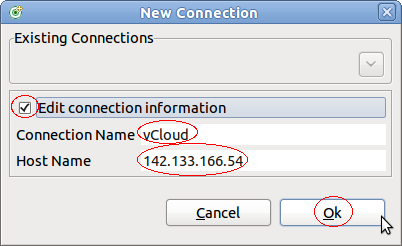
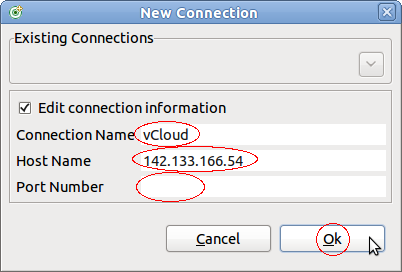
lttng: Support for port number in lttng control (bug 406122)
IP-Clean: Alexandre Montplaisir <alexmonthy@voxpopuli.im>

Changed region(s): [[0.0, 0.0, 1.0, 0.7683], [0.4179, 0.7967, 0.9851, 0.9675]]

diff --git a/lttng/org.eclipse.linuxtools.lttng2.ui/src/org/eclipse/linuxtools/internal/lttng2/ui/views/control/dialogs/NewConnectionDialog.java b/lttng/org.eclipse.linuxtools.lttng2.ui/src/org/eclipse/linuxtools/internal/lttng2/ui/views/control/dialogs/NewConnectionDialog.java
@@ -1,5 +1,5 @@
 /**********************************************************************
- * Copyright (c) 2012 Ericsson
+ * Copyright (c) 2012, 2013 Ericsson
  *
  * All rights reserved. This program and the accompanying materials are
  * made available under the terms of the Eclipse Public License v1.0 which
@@ -19,11 +19,14 @@ import org.eclipse.jface.dialogs.MessageDialog;
 import org.eclipse.linuxtools.internal.lttng2.ui.Activator;
 import org.eclipse.linuxtools.internal.lttng2.ui.views.control.messages.Messages;
 import org.eclipse.linuxtools.internal.lttng2.ui.views.control.model.ITraceControlComponent;
+import org.eclipse.linuxtools.internal.lttng2.ui.views.control.remote.IRemoteSystemProxy;
 import org.eclipse.rse.core.model.IHost;
 import org.eclipse.swt.SWT;
 import org.eclipse.swt.custom.CCombo;
 import org.eclipse.swt.events.SelectionEvent;
 import org.eclipse.swt.events.SelectionListener;
+import org.eclipse.swt.events.VerifyEvent;
+import org.eclipse.swt.events.VerifyListener;
 import org.eclipse.swt.graphics.Point;
 import org.eclipse.swt.layout.GridData;
 import org.eclipse.swt.layout.GridLayout;
@@ -84,6 +87,10 @@ public class NewConnectionDialog extends Dialog implements INewConnectionDialog 
      */
     private Text fHostNameText = null;
     /**
+     * The text widget for the IP port
+     */
+    private Text fPortText = null;
+    /**
      * The parent where the new node should be added.
      */
     private ITraceControlComponent fParent;
@@ -95,7 +102,10 @@ public class NewConnectionDialog extends Dialog implements INewConnectionDialog 
      * The node address (IP or DNS name) string.
      */
     private String fHostName = null;
-
+    /**
+     * The IP port of the connection.
+     */
+    private int fPort = IRemoteSystemProxy.INVALID_PORT_NUMBER;
     /**
      * Input list of existing RSE hosts available for selection.
      */
@@ -136,6 +146,11 @@ public class NewConnectionDialog extends Dialog implements INewConnectionDialog 
         return fHostName;
     }
 
+    @Override
+    public int getPort() {
+        return fPort;
+    }
+
     /*
      * (non-Javadoc)
      * @see org.eclipse.linuxtools.internal.lttng2.ui.views.control.dialogs.INewConnectionDialog#setTraceControlParent(org.eclipse.linuxtools.internal.lttng2.ui.views.control.model.ITraceControlComponent)
@@ -154,6 +169,11 @@ public class NewConnectionDialog extends Dialog implements INewConnectionDialog 
         if (hosts != null) {
             fExistingHosts = Arrays.copyOf(hosts, hosts.length);
         }
+    }
+
+    @Override
+    public void setPort(int port) {
+        fPort = port;
     }
 
     // ------------------------------------------------------------------------
@@ -227,6 +247,19 @@ public class NewConnectionDialog extends Dialog implements INewConnectionDialog 
         fHostNameText.setToolTipText(Messages.TraceControl_NewNodeHostNameTooltip);
         fHostNameText.setEnabled(fExistingHosts.length == 0);
 
+        Label portLabel = new Label(fTextGroup, SWT.RIGHT);
+        portLabel.setText(Messages.TraceControl_NewNodePortLabel);
+        fPortText = new Text(fTextGroup, SWT.NONE);
+        fPortText.setToolTipText(Messages.TraceControl_NewNodePortTooltip);
+        fPortText.setEnabled(fExistingHosts.length == 0);
+        fPortText.addVerifyListener(new VerifyListener() {
+            @Override
+            public void verifyText(VerifyEvent e) {
+                // only numbers are allowed.
+                e.doit = e.text.matches("[0-9]*"); //$NON-NLS-1$
+            }
+        });
+
         fButton.addSelectionListener(new SelectionListener() {
             @Override
             public void widgetSelected(SelectionEvent e) {
@@ -235,10 +268,12 @@ public class NewConnectionDialog extends Dialog implements INewConnectionDialog 
                     fExistingHostsCombo.setEnabled(false);
                     fConnectionNameText.setEnabled(true);
                     fHostNameText.setEnabled(true);
+                    fPortText.setEnabled(true);
                 } else {
                     fExistingHostsCombo.setEnabled(true);
                     fConnectionNameText.setEnabled(false);
                     fHostNameText.setEnabled(false);
+                    fPortText.setEnabled(false);
                 }
             }
 
@@ -253,6 +288,7 @@ public class NewConnectionDialog extends Dialog implements INewConnectionDialog 
                 int index = fExistingHostsCombo.getSelectionIndex();
                 fConnectionNameText.setText(fExistingHosts[index].getAliasName());
                 fHostNameText.setText(fExistingHosts[index].getHostName());
+                fPortText.setText(""); //$NON-NLS-1$
             }
 
             @Override
@@ -264,11 +300,20 @@ public class NewConnectionDialog extends Dialog implements INewConnectionDialog 
         data = new GridData(GridData.FILL_HORIZONTAL);
         fHostNameText.setText("666.666.666.666"); //$NON-NLS-1$
         Point minSize = fHostNameText.computeSize(SWT.DEFAULT, SWT.DEFAULT, true);
-        data.widthHint = minSize.x + 5;
+        int widthHint = minSize.x + 5;
+        data.widthHint = widthHint;
         data.horizontalSpan = 2;
-
         fConnectionNameText.setLayoutData(data);
+
+        data = new GridData(GridData.FILL_HORIZONTAL);
+        data.widthHint = widthHint;
+        data.horizontalSpan = 2;
         fHostNameText.setLayoutData(data);
+
+        data = new GridData(GridData.FILL_HORIZONTAL);
+        data.widthHint = widthHint;
+        data.horizontalSpan = 2;
+        fPortText.setLayoutData(data);
 
         fHostNameText.setText(""); //$NON-NLS-1$
 
@@ -294,6 +339,7 @@ public class NewConnectionDialog extends Dialog implements INewConnectionDialog 
         // Validate input data
         fConnectionName = fConnectionNameText.getText();
         fHostName = fHostNameText.getText();
+        fPort = (fPortText.getText().length() > 0) ? Integer.parseInt(fPortText.getText()) : IRemoteSystemProxy.INVALID_PORT_NUMBER;
 
         if (!"".equals(fHostName)) { //$NON-NLS-1$
             // If no node name is specified use the node address as name

diff --git a/lttng/org.eclipse.linuxtools.lttng2.ui/src/org/eclipse/linuxtools/internal/lttng2/ui/views/control/handlers/NewConnectionHandler.java b/lttng/org.eclipse.linuxtools.lttng2.ui/src/org/eclipse/linuxtools/internal/lttng2/ui/views/control/handlers/NewConnectionHandler.java
@@ -1,5 +1,5 @@
 /**********************************************************************
- * Copyright (c) 2012 Ericsson and others
+ * Copyright (c) 2012, 2013 Ericsson and others
  *
  * All rights reserved. This program and the accompanying materials are
  * made available under the terms of the Eclipse Public License v1.0 which
@@ -25,6 +25,7 @@ import org.eclipse.linuxtools.internal.lttng2.ui.views.control.dialogs.TraceCont
 import org.eclipse.linuxtools.internal.lttng2.ui.views.control.messages.Messages;
 import org.eclipse.linuxtools.internal.lttng2.ui.views.control.model.ITraceControlComponent;
 import org.eclipse.linuxtools.internal.lttng2.ui.views.control.model.impl.TargetNodeComponent;
+import org.eclipse.linuxtools.internal.lttng2.ui.views.control.remote.IRemoteSystemProxy;
 import org.eclipse.rse.core.IRSESystemType;
 import org.eclipse.rse.core.RSECorePlugin;
 import org.eclipse.rse.core.model.IHost;
@@ -86,6 +87,7 @@ public class NewConnectionHandler extends BaseControlViewHandler {
         final INewConnectionDialog dialog = TraceControlDialogFactory.getInstance().getNewConnectionDialog();
         dialog.setTraceControlParent(fRoot);
         dialog.setHosts(hosts);
+        dialog.setPort(IRemoteSystemProxy.INVALID_PORT_NUMBER);
 
         if (dialog.open() != Window.OK) {
             return null;
@@ -93,6 +95,7 @@ public class NewConnectionHandler extends BaseControlViewHandler {
 
         String hostName = dialog.getConnectionName();
         String hostAddress = dialog.getHostName();
+        int port = dialog.getPort();
 
         // get the singleton RSE registry
         IHost host = null;
@@ -129,6 +132,7 @@ public class NewConnectionHandler extends BaseControlViewHandler {
                 TargetNodeComponent node = null;
                 if (!fRoot.containsChild(hostName)) {
                     node = new TargetNodeComponent(hostName, fRoot, host);
+                    node.setPort(port);
                     fRoot.addChild(node);
                 }
                 else {

diff --git a/lttng/org.eclipse.linuxtools.lttng2.ui/src/org/eclipse/linuxtools/internal/lttng2/ui/views/control/dialogs/INewConnectionDialog.java b/lttng/org.eclipse.linuxtools.lttng2.ui/src/org/eclipse/linuxtools/internal/lttng2/ui/views/control/dialogs/INewConnectionDialog.java
@@ -1,12 +1,12 @@
 /**********************************************************************
- * Copyright (c) 2012 Ericsson
- * 
+ * Copyright (c) 2012, 2013 Ericsson
+ *
  * All rights reserved. This program and the accompanying materials are
  * made available under the terms of the Eclipse Public License v1.0 which
  * accompanies this distribution, and is available at
  * http://www.eclipse.org/legal/epl-v10.html
- * 
- * Contributors: 
+ *
+ * Contributors:
  *   Bernd Hufmann - Initial API and implementation
  **********************************************************************/
 package org.eclipse.linuxtools.internal.lttng2.ui.views.control.dialogs;
@@ -18,11 +18,11 @@ import org.eclipse.rse.core.model.IHost;
  * <p>
  * Interface for connection information dialog.
  * </p>
- * 
+ *
  *  @author Bernd Hufmann
  */
 public interface INewConnectionDialog {
-    
+
     // ------------------------------------------------------------------------
     // Accessors
     // ------------------------------------------------------------------------
@@ -35,18 +35,29 @@ public interface INewConnectionDialog {
      * @return the host name (IP address or DNS name)
      */
     public String getHostName();
-    
+
+    /**
+     * @return port of IP connection to be used
+     */
+    public int getPort();
+
     /**
      * Sets the trace control root
      * @param parent - the trace control parent
      */
     public void setTraceControlParent(ITraceControlComponent parent);
-    
+
     /**
      * Sets the available hosts to select.
      * @param hosts - the available hosts
      */
     public void setHosts(IHost[] hosts);
+
+    /**
+     * Set the port of the IP connection to be used.
+     * @param port - the IP port to set
+     */
+    public void setPort(int port);
 
     // ------------------------------------------------------------------------
     // Operations

diff --git a/lttng/org.eclipse.linuxtools.lttng2.ui/src/org/eclipse/linuxtools/internal/lttng2/ui/views/control/remote/IRemoteSystemProxy.java b/lttng/org.eclipse.linuxtools.lttng2.ui/src/org/eclipse/linuxtools/internal/lttng2/ui/views/control/remote/IRemoteSystemProxy.java
@@ -1,5 +1,5 @@
 /**********************************************************************
- * Copyright (c) 2012 Ericsson
+ * Copyright (c) 2012, 2013 Ericsson
  *
  * All rights reserved. This program and the accompanying materials are
  * made available under the terms of the Eclipse Public License v1.0 which
@@ -27,6 +27,14 @@ import org.eclipse.rse.subsystems.files.core.servicesubsystem.IFileServiceSubSys
  * @author Bernd Hufmann
  */
 public interface IRemoteSystemProxy {
+
+    // ------------------------------------------------------------------------
+    // Constants
+    // ------------------------------------------------------------------------
+    /**
+     * Invalid port number for IP based connections.
+     */
+    public final static int INVALID_PORT_NUMBER = -1;
 
     // ------------------------------------------------------------------------
     // Operations
@@ -65,6 +73,17 @@ public interface IRemoteSystemProxy {
      * @return file service subsystem, or <code>null</code> if not found.
      */
     public IFileServiceSubSystem getFileServiceSubSystem();
+
+    /**
+     * @return port of IP connection to be used
+     */
+    public int getPort();
+
+    /**
+     * Sets the port of the IP connection.
+     * @param port - the IP port to set
+     */
+    public void setPort(int port);
 
     /**
      * Connects the shell service sub system.

diff --git a/lttng/org.eclipse.linuxtools.lttng2.ui/src/org/eclipse/linuxtools/internal/lttng2/ui/views/control/remote/RemoteSystemProxy.java b/lttng/org.eclipse.linuxtools.lttng2.ui/src/org/eclipse/linuxtools/internal/lttng2/ui/views/control/remote/RemoteSystemProxy.java
@@ -1,5 +1,5 @@
 /**********************************************************************
- * Copyright (c) 2012 Ericsson
+ * Copyright (c) 2012, 2013 Ericsson
  *
  * All rights reserved. This program and the accompanying materials are
  * made available under the terms of the Eclipse Public License v1.0 which
@@ -141,8 +141,24 @@ public class RemoteSystemProxy implements IRemoteSystemProxy {
         return null;
     }
 
-    /* (non-Javadoc)
-     * @see org.eclipse.linuxtools.internal.lttng2.ui.views.control.util.IRemoteSystemProxy#connect(org.eclipse.rse.core.model.IRSECallback)
+    @Override
+    public int getPort() {
+        if (getShellServiceSubSystem() != null) {
+            return getShellServiceSubSystem().getConnectorService().getPort();
+        }
+        return IRemoteSystemProxy.INVALID_PORT_NUMBER;
+    }
+
+    @Override
+    public void setPort(int port) {
+        if ((getShellServiceSubSystem() != null) && (port > 0)) {
+            getShellServiceSubSystem().getConnectorService().setPort(port);
+        }
+    }
+
+    /*
+     * (non-Javadoc)
+     * @see org.eclipse.linuxtools.internal.lttng2.ui.views.control.remote.IRemoteSystemProxy#connect(org.eclipse.rse.core.model.IRSECallback)
      */
     @Override
     public void connect(IRSECallback callback) throws ExecutionException {

diff --git a/lttng/org.eclipse.linuxtools.lttng2.ui.tests/stubs/org/eclipse/linuxtools/internal/lttng2/stubs/service/TestRemoteSystemProxy.java b/lttng/org.eclipse.linuxtools.lttng2.ui.tests/stubs/org/eclipse/linuxtools/internal/lttng2/stubs/service/TestRemoteSystemProxy.java
@@ -1,5 +1,5 @@
 /**********************************************************************
- * Copyright (c) 2012 Ericsson
+ * Copyright (c) 2012, 2013 Ericsson
  *
  * All rights reserved. This program and the accompanying materials are
  * made available under the terms of the Eclipse Public License v1.0 which
@@ -100,5 +100,14 @@ public class TestRemoteSystemProxy implements IRemoteSystemProxy {
         if (fShell != null) {
             fShell.setScenario(fScenario);
         }
+    }
+
+    @Override
+    public int getPort() {
+        return IRemoteSystemProxy.INVALID_PORT_NUMBER;
+    }
+
+    @Override
+    public void setPort(int port) {
     }
 }

diff --git a/lttng/org.eclipse.linuxtools.lttng2.ui/src/org/eclipse/linuxtools/internal/lttng2/ui/views/control/model/impl/TargetNodeComponent.java b/lttng/org.eclipse.linuxtools.lttng2.ui/src/org/eclipse/linuxtools/internal/lttng2/ui/views/control/model/impl/TargetNodeComponent.java
@@ -198,6 +198,21 @@ public class TargetNodeComponent extends TraceControlComponent implements ICommu
     }
 
     /**
+     * @return port of IP connection (shell) to be used
+     */
+    public int getPort() {
+        return fRemoteProxy.getPort();
+    }
+
+    /**
+     * Sets the port of the IP connections of the shell
+     * @param port - the IP port to set
+     */
+    public void setPort(int port) {
+        fRemoteProxy.setPort(port);
+    }
+
+    /**
      * @return all available sessions.
      */
     public TraceSessionComponent[] getSessions() {

diff --git a/lttng/org.eclipse.linuxtools.lttng2.ui/src/org/eclipse/linuxtools/internal/lttng2/ui/views/control/messages/Messages.java b/lttng/org.eclipse.linuxtools.lttng2.ui/src/org/eclipse/linuxtools/internal/lttng2/ui/views/control/messages/Messages.java
@@ -93,6 +93,8 @@ final public class Messages extends NLS {
     public static String TraceControl_NewNodeConnectionNameTooltip;
     public static String TraceControl_NewNodeHostNameLabel;
     public static String TraceControl_NewNodeHostNameTooltip;
+    public static String TraceControl_NewNodePortLabel;
+    public static String TraceControl_NewNodePortTooltip;
     public static String TraceControl_AlreadyExistsError;
 
     public static String TraceControl_CreateSessionDialogTitle;
